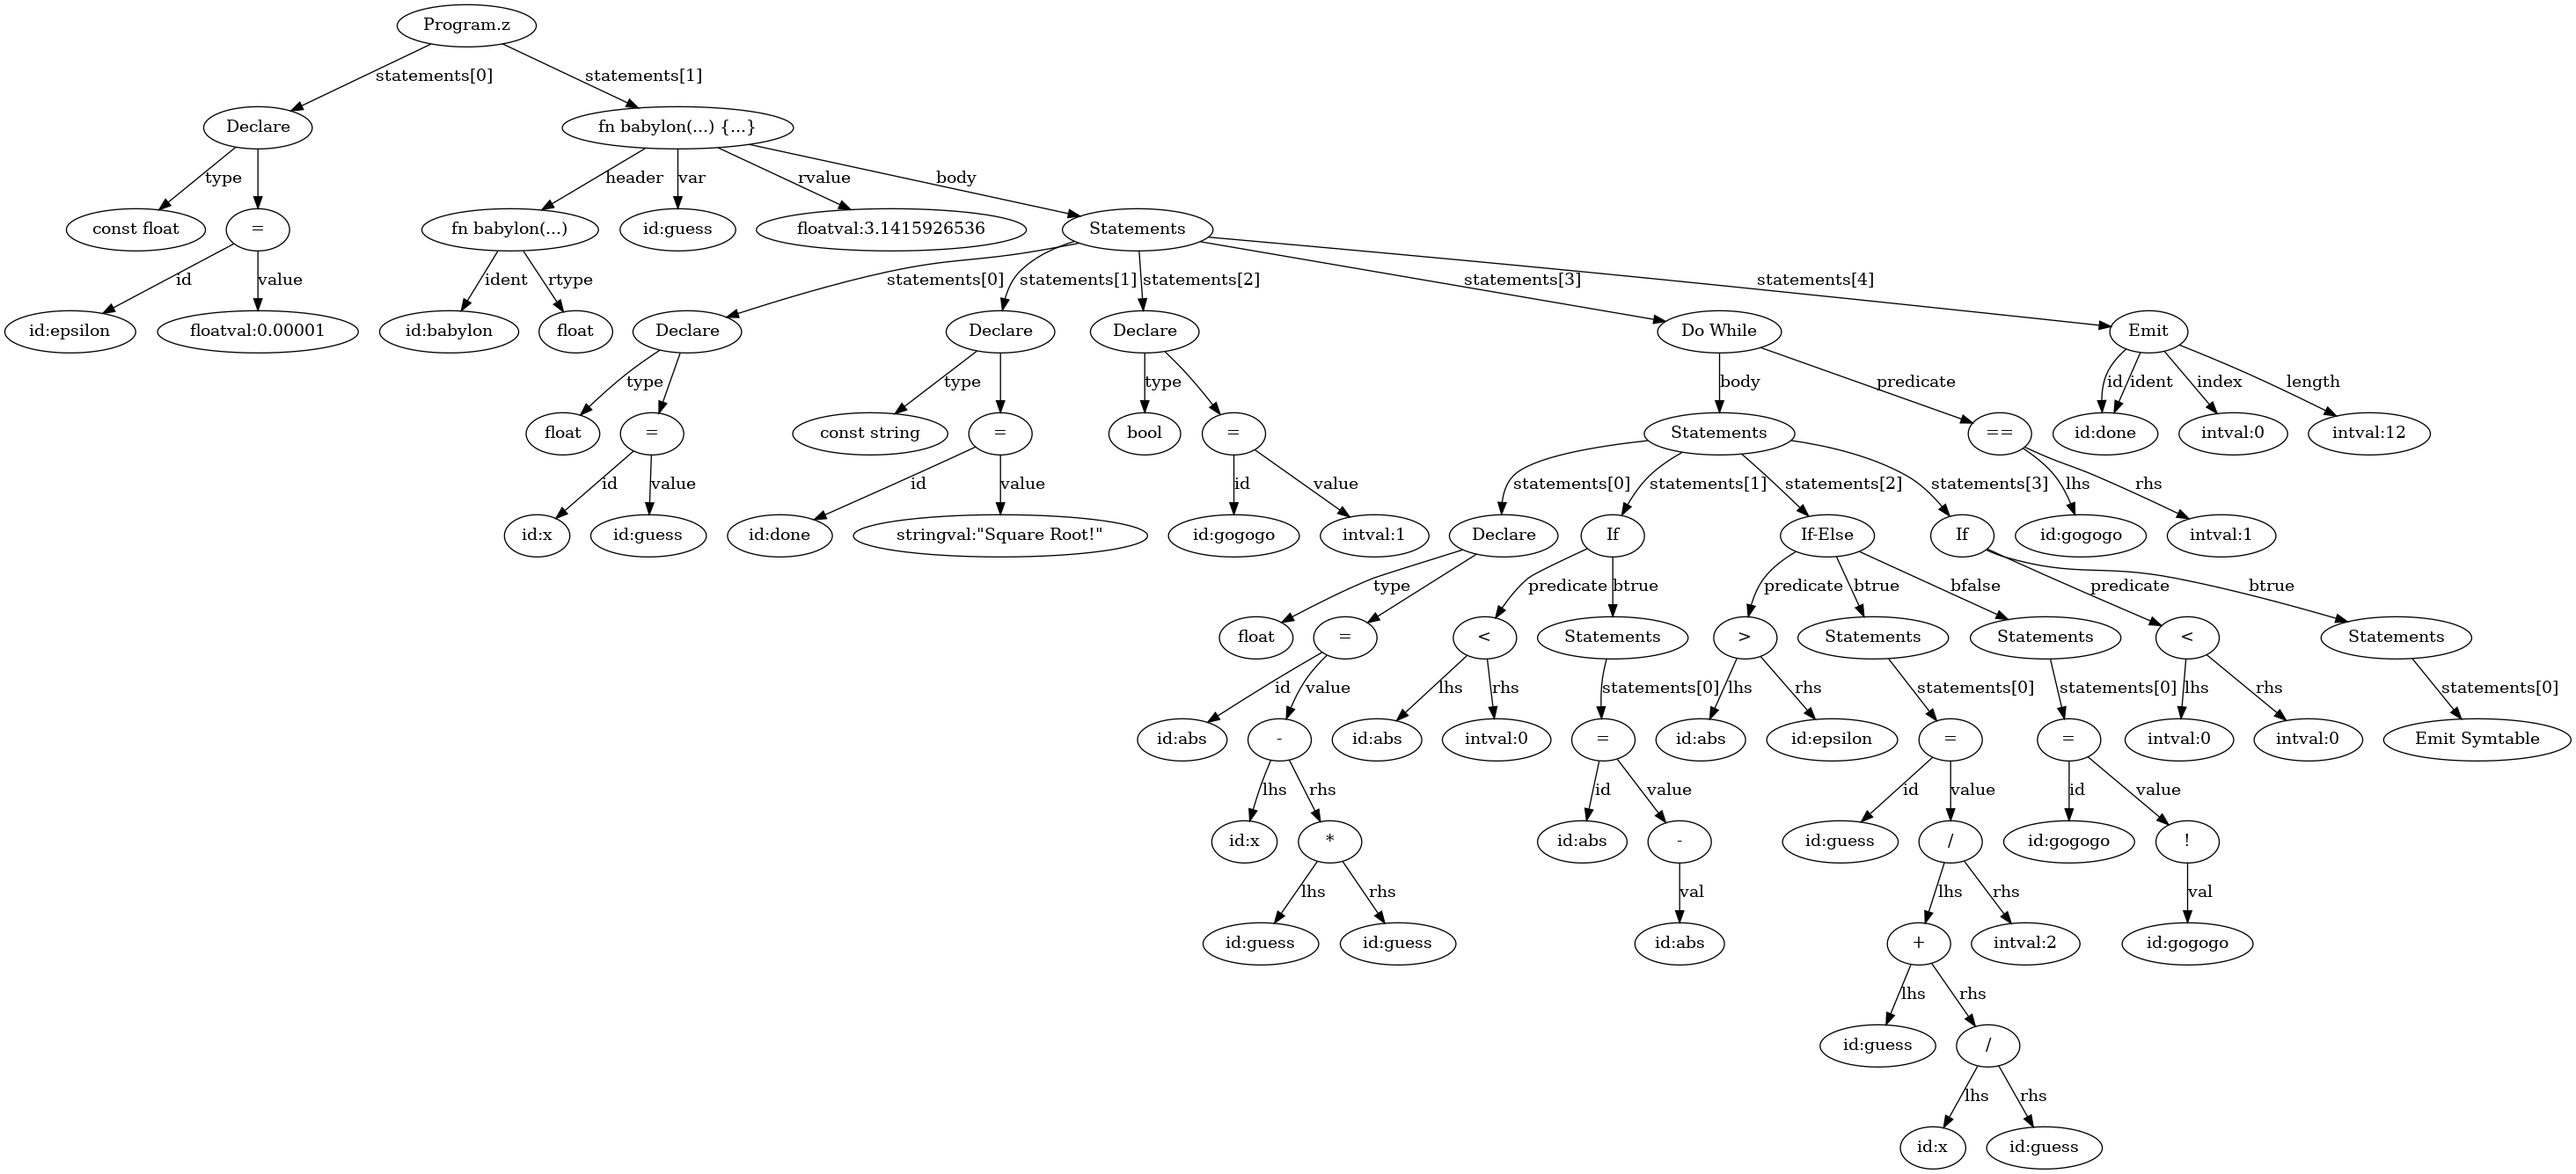
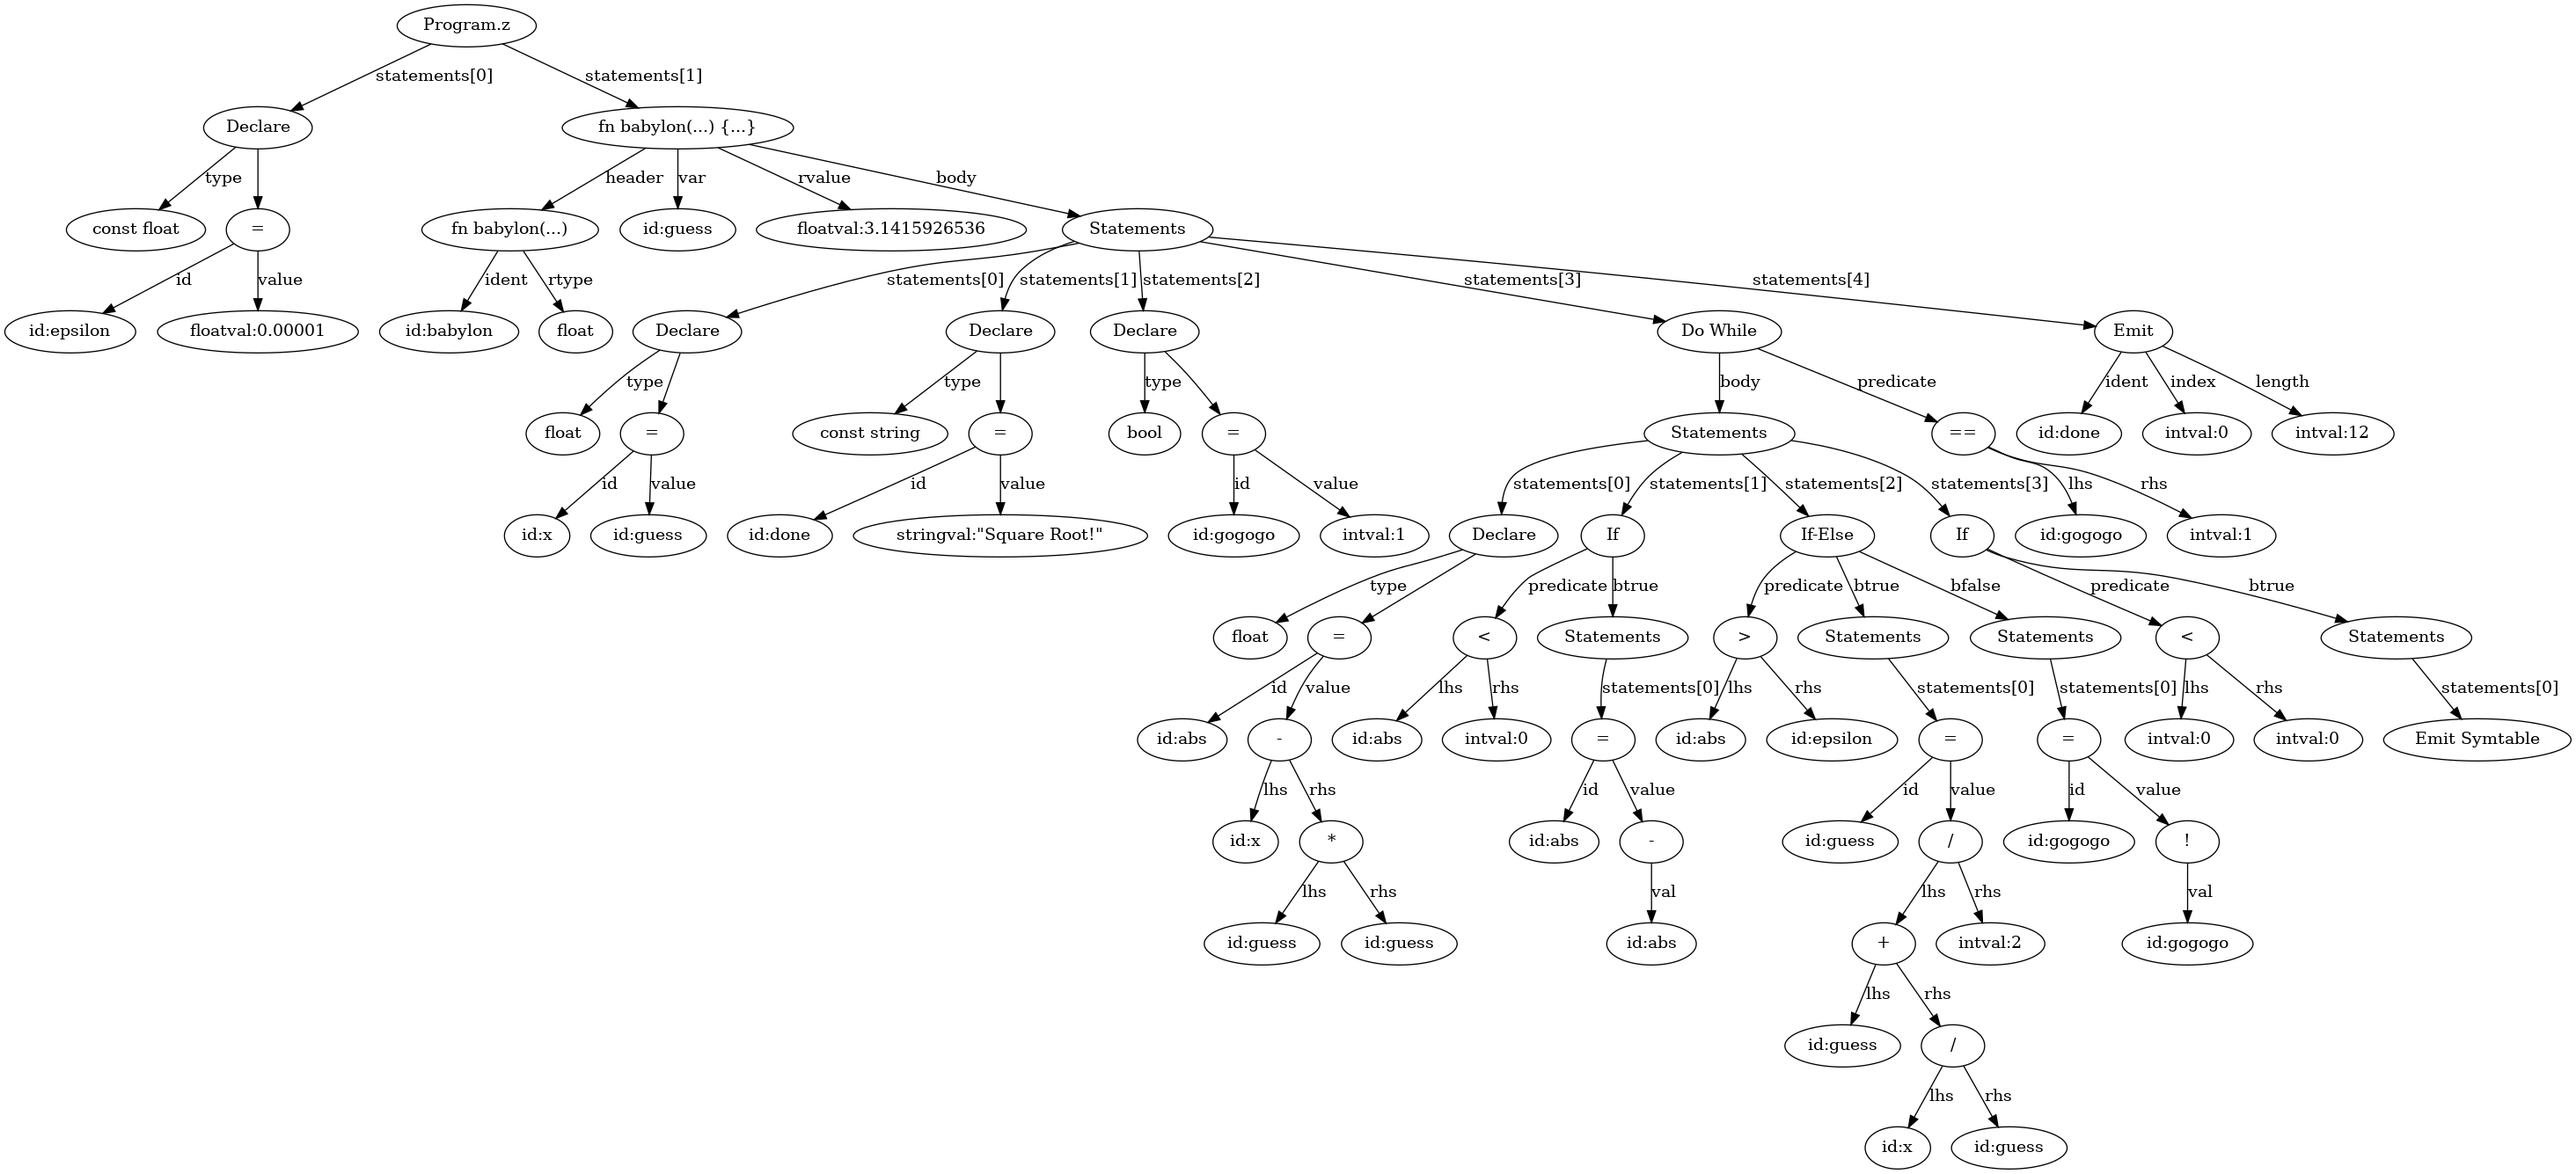
Fix

diff --git a/zlang.js b/zlang.js
@@ -3651,7 +3651,7 @@ var ZLang;
                 return this.data.type === 'symbtable' ? 'Emit Symtable' : 'Emit';
             }
             get [Graphviz.children]() {
-                return [...(this.data.type === 'string' ? [['id', this.data.ident]] : []), ...Object.entries(this.data)];
+                return [...Object.entries(this.data)];
             }
         }
         Nodes.EmitStatement = EmitStatement;

diff --git a/core/zlang.ts b/core/zlang.ts
@@ -338,7 +338,7 @@ namespace ZLang {
                 return this.data.type === 'symbtable' ? 'Emit Symtable' : 'Emit';
             }
             get [Graphviz.children]() {
-                return [...(this.data.type==='string' ? [['id',this.data.ident]] : []),...Object.entries(this.data)];
+                return [...Object.entries(this.data)];
             }
         }
 
